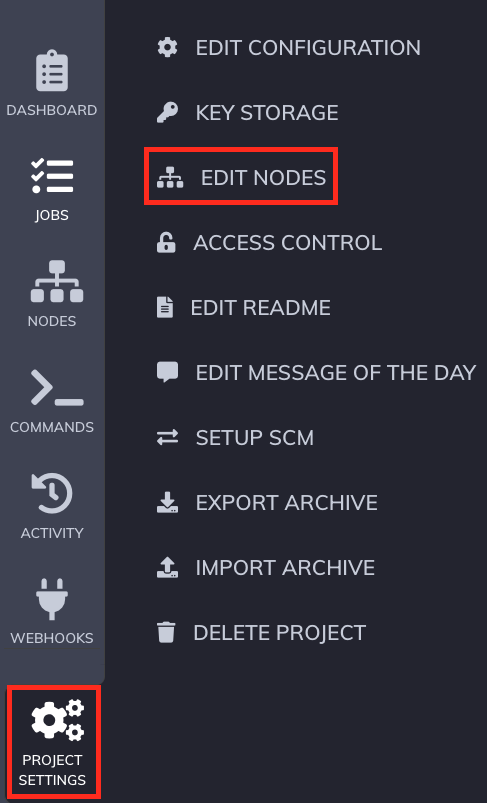
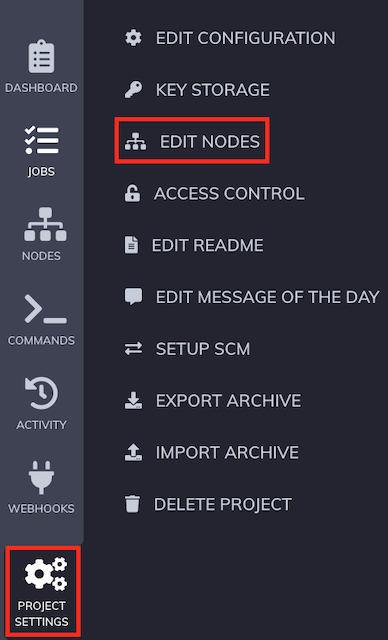
Updated image tags with size percentages to shrink image onscreen

diff --git a/docs/learning/getting-started/jobs/node-sources.md b/docs/learning/getting-started/jobs/node-sources.md
@@ -15,15 +15,16 @@ Static sources come in 4 varieties: file, url, directory and script. File (in .y
 
 #### Edit Nodes
 Select the Project Settings gear icon at the bottom left and then select Edit Nodes<br>
-![](~@assets/img/nodes1-editnodes.png)<br>
+<!-- ![](~@assets/img/nodes1-editnodes2.png)<br> -->
+<img src="~@assets/img/nodes1-editnodes.png" width="40%" height="40%" /><br>
 Click the blue Add a New Source button at the bottom<br>
-![](~@assets/img/nodes2-addnewsource.png)<br>
+<img src="~@assets/img/nodes2-addnewsource.png" width="80%" height="80%" /><br>
 Select the preferred Node Source type (such as File)<br>
-![](~@assets/img/nodes3-selectfilesource.png)<br>
+<img src="~@assets/img/nodes3-selectfilesource.png" width="60%" height="60%" /><br>
 Provide details on where and how to connect to the new Node Source<br>
-![](~@assets/img/nodes4-filesourcedetails.png)<br>
+<img src="~@assets/img/nodes4-filesourcedetails.png" width="80%" height="80%" /><br>
 For a file Node Source, the required elements are the File Path (on the Rundeck server) and the Format. If permissions have been set appropriately, select Writable to have the ability to edit the Node Source in the Rundeck interface. Click the green Save button to complete the source.<br>
-![](~@assets/img/nodes5-savesave.png)<br>
+<img src="~@assets/img/nodes5-savesave.png" width="80%" height="80%" /><br>
 To commit your node source changes to the database, select the second green Save button at the bottom of the Sources page. There are warning messages at top and bottom to remind you to save here.<br>
 
 ### Adding a Dynamic Source
@@ -31,20 +32,20 @@ The details needed for dynamic sources vary greatly based on the wide variety of
 
 #### Edit Nodes
 Select the Project Settings gear icon at the bottom left and then select Edit Nodes<br>
-![](~@assets/img/nodes1-editnodes.png)<br>
+<img src="~@assets/img/nodes1-editnodes.png" width="40%" height="40%" /><br>
 Click the blue Add a New Source button at the bottom<br>
-![](~@assets/img/nodes2-addnewsource.png)<br>
+<img src="~@assets/img/nodes2-addnewsource.png" width="80%" height="80%" /><br>
 Select the preferred Node Source type (such as Ansible)<br>
-![](~@assets/img/nodes6-selectansiblesource.png)<br>
+<img src="~@assets/img/nodes6-selectansiblesource.png" width="60%" height="60%" /><br>
 Provide details on where and how to connect to the new Node Source<br>
-![](~@assets/img/nodes7-ansiblesourcedetails.png)<br>
+<img src="~@assets/img/nodes7-ansiblesourcedetails.png" width="80%" height="80%" /><br>
 For an Ansible Node Source, the primary settings to be concerned with are paths to the Ansible binaries, the Ansible inventory file and Ansible config file. For more details on integrating with Ansible, look [here](https://docs.rundeck.com/docs/learning/howto/using-ansible.html#how-to-integrate-ansible-with-rundeck). Click the green Save button to complete the source.<br>
-![](~@assets/img/nodes8-savesave2.png)<br>
+<img src="~@assets/img/nodes8-savesave2.png" width="80%" height="80%" /><br>
 To commit your node source changes to the database, select the second green Save button at the bottom of the Sources page. There are warning messages at top and bottom to remind you to save here.<br>
 
 ## Editing Data in Node Sources
 Not all node sources allow for direct modification of the contained data. Where it is possible, access to that data is available under the Edit tab when you go to Edit Sources. There will be a Modify button associated with each source that can be changed. One sort of Source like this would be a File Node Source that has been marked as writable.<br>
-![](~@assets/img/nodes9-modifysource.png)<br>
+<img src="~@assets/img/nodes9-modifysource.png" width="80%" height="80%" /><br>
 Changing the data for connecting to a source happens in the same area where sources get added, the Sources tab under Edit Nodes.<br>
 Note: Refreshing nodes with updated metadata is controlled by the “cache delay” setting under Edit Nodes | Configuration.  By default, that means that the system checks for new content every 30 seconds.<br>
 
@@ -54,13 +55,13 @@ Effectively, enhancers direct the system to look for nodes that match specific c
 
 #### Adding an Enhancer
 To add an Enhancer, Click the blue Add a New Enhancer button at the bottom of the Enhancers tab under Edit Nodes<br>
-![](~@assets/img/nodes10-addenhancer.png)<br>
+<img src="~@assets/img/nodes10-addenhancer.png" width="80%" height="80%" /><br>
 #### Enhancer Example
 In the screenshot example, a node with a specific name is being enhanced with two attributes that change how it will be connected to (using SSM) as well as getting a specific tag (ssm).<br>
-![](~@assets/img/nodes11-enhancerdetails.png)<br>
+<img src="~@assets/img/nodes11-enhancerdetails.png" width="80%" height="80%" /><br>
 ## Removing Node Sources
 To remove a Node Source, return to the Sources tab under Edit Nodes and use the red delete button associated with the Node Source you want to remove. Note that by deleting the source you aren’t removing the file or other source data. You are simply disconnecting this project from that source data, which will remove the associated nodes from Rundeck and the ability to target those nodes with Jobs or Commands.<br>
-![](~@assets/img/nodes12-deletesource.png)<br>
+<img src="~@assets/img/nodes12-deletesource.png" width="80%" height="80%" /><br>
 ## How is a Node Source Different from a Node Filter?
 Node Sources are established at the project level and represent a specific static or dynamic set of nodes available within that project. Node sources are not related directly to a job. A dynamic source is dynamic in the sense that the nodes returned by the source can change over time based on what’s included in the source database or system.<br>
 Node Filters, on the other hand, are generally established in the context of a job to identify which nodes will be targeted by that job. Node filters are also dynamic but not in the same sense. A node filter is composed of one or more attribute/value pairs that must be matched to be included in the filter and therefore targeted by that job. Which nodes are included in the filter set can change based on which nodes from Node Sources match the Node Filter at the time the job runs.<br>
